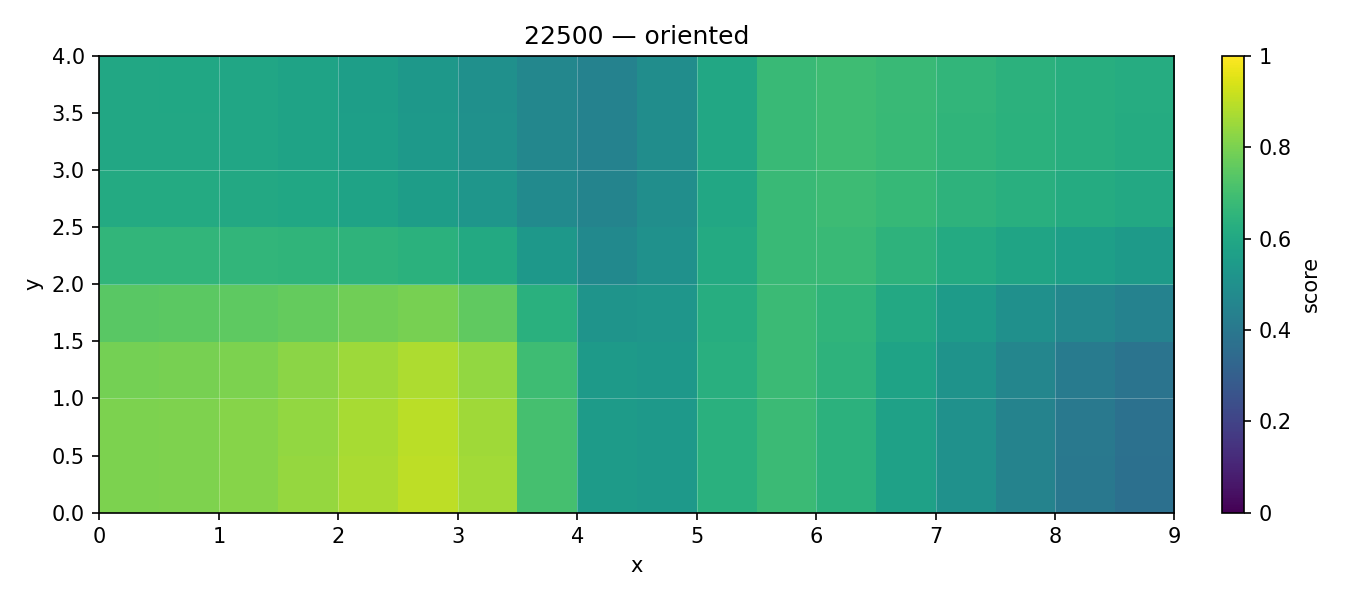
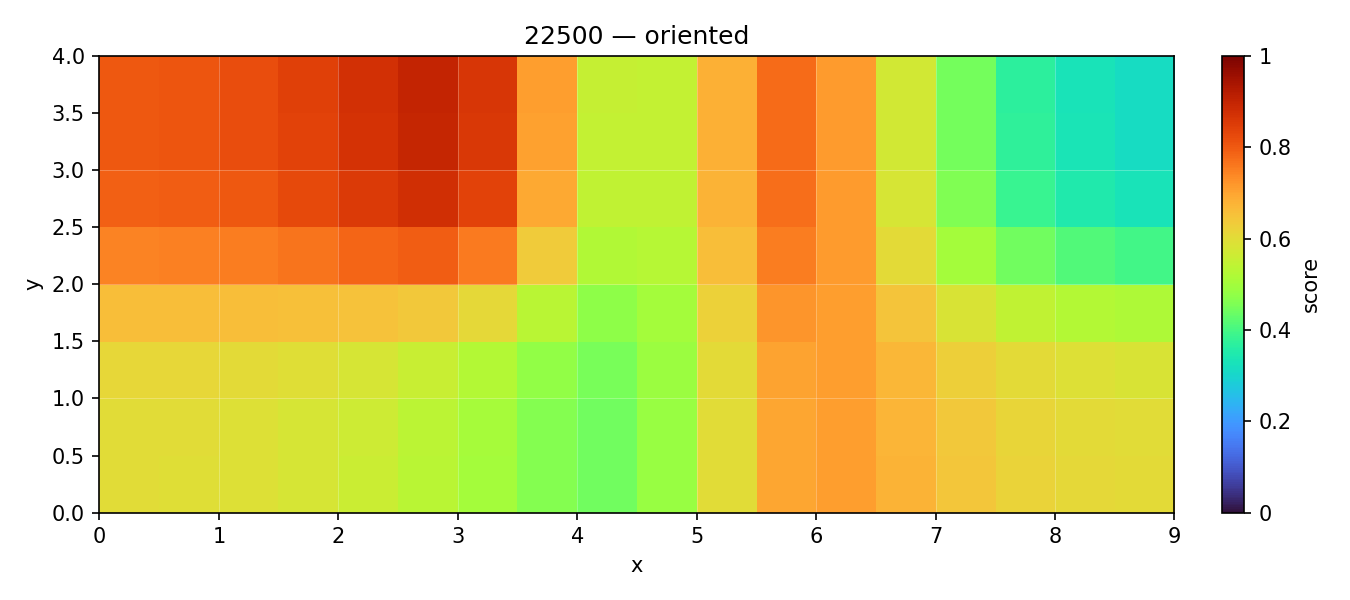
fix viz

diff --git a/exp_viz.py b/exp_viz.py
@@ -26,7 +26,7 @@ CONFIG_GLOBAL_TITLES: dict[Config, str] = {
 
 HEATMAP_VMIN = 0.0
 HEATMAP_VMAX = 1.0
-HEATMAP_CMAP_NAME = "viridis"
+HEATMAP_CMAP_NAME = "turbo"  # better separation than viridis in 0.7–0.9
 FIGURE_DPI = 150
 COLORBAR_TICKS = (0.0, 0.2, 0.4, 0.6, 0.8, 1.0)
 CMAP = plt.get_cmap(HEATMAP_CMAP_NAME).resampled(256)
@@ -86,12 +86,12 @@ data = {
 
 viz_positions = {
     "in_distribution": {
-        "normal": [(4.5, 0.5), (2.5, 1.5), (2.5, 2.5), (4.5, 2.5), (6.5, 2.5), (6.5, 1.5)],
-        "oriented": [(4.5, 1), (2, 1), (2, 3), (4.5, 3), (6.5, 3), (6.5, 1)],
+        "normal": [(4.5, 3.5), (2.5, 2.5), (2.5, 1.5), (4.5, 1.5), (6.5, 1.5), (6.5, 2.5)],
+        "oriented": [(4.5, 3), (2, 3), (2, 1), (4.5, 1), (7, 1), (7, 3)],
     },
     "out_of_distribution": {
         "normal": [(3, 1), (3, 3), (6, 3), (6, 1)],
-        "oriented": [(3, 1), (3, 3), (6, 3), (6, 1)],
+        "oriented": [(3, 3), (3, 1), (6, 1), (6, 3)],
     },
 }
 

diff --git a/README.md b/README.md
@@ -232,3 +232,13 @@ uv run lerobot-rollout \
 
 a clear:
 9, 17, 18, 27, 28, 48, 49, 58, 59
+
+
+```
+uv run lerobot-edit-dataset \
+    --repo_id ${HF_USER}/pick_blue_cube_2 \
+    --new_repo_id ${HF_USER}/pick_blue_cube_clean \
+    --operation.type delete_episodes \
+    --operation.episode_indices "[9, 17, 18, 27, 28, 48, 49, 58, 59]" \
+    --push_to_hub true
+```
